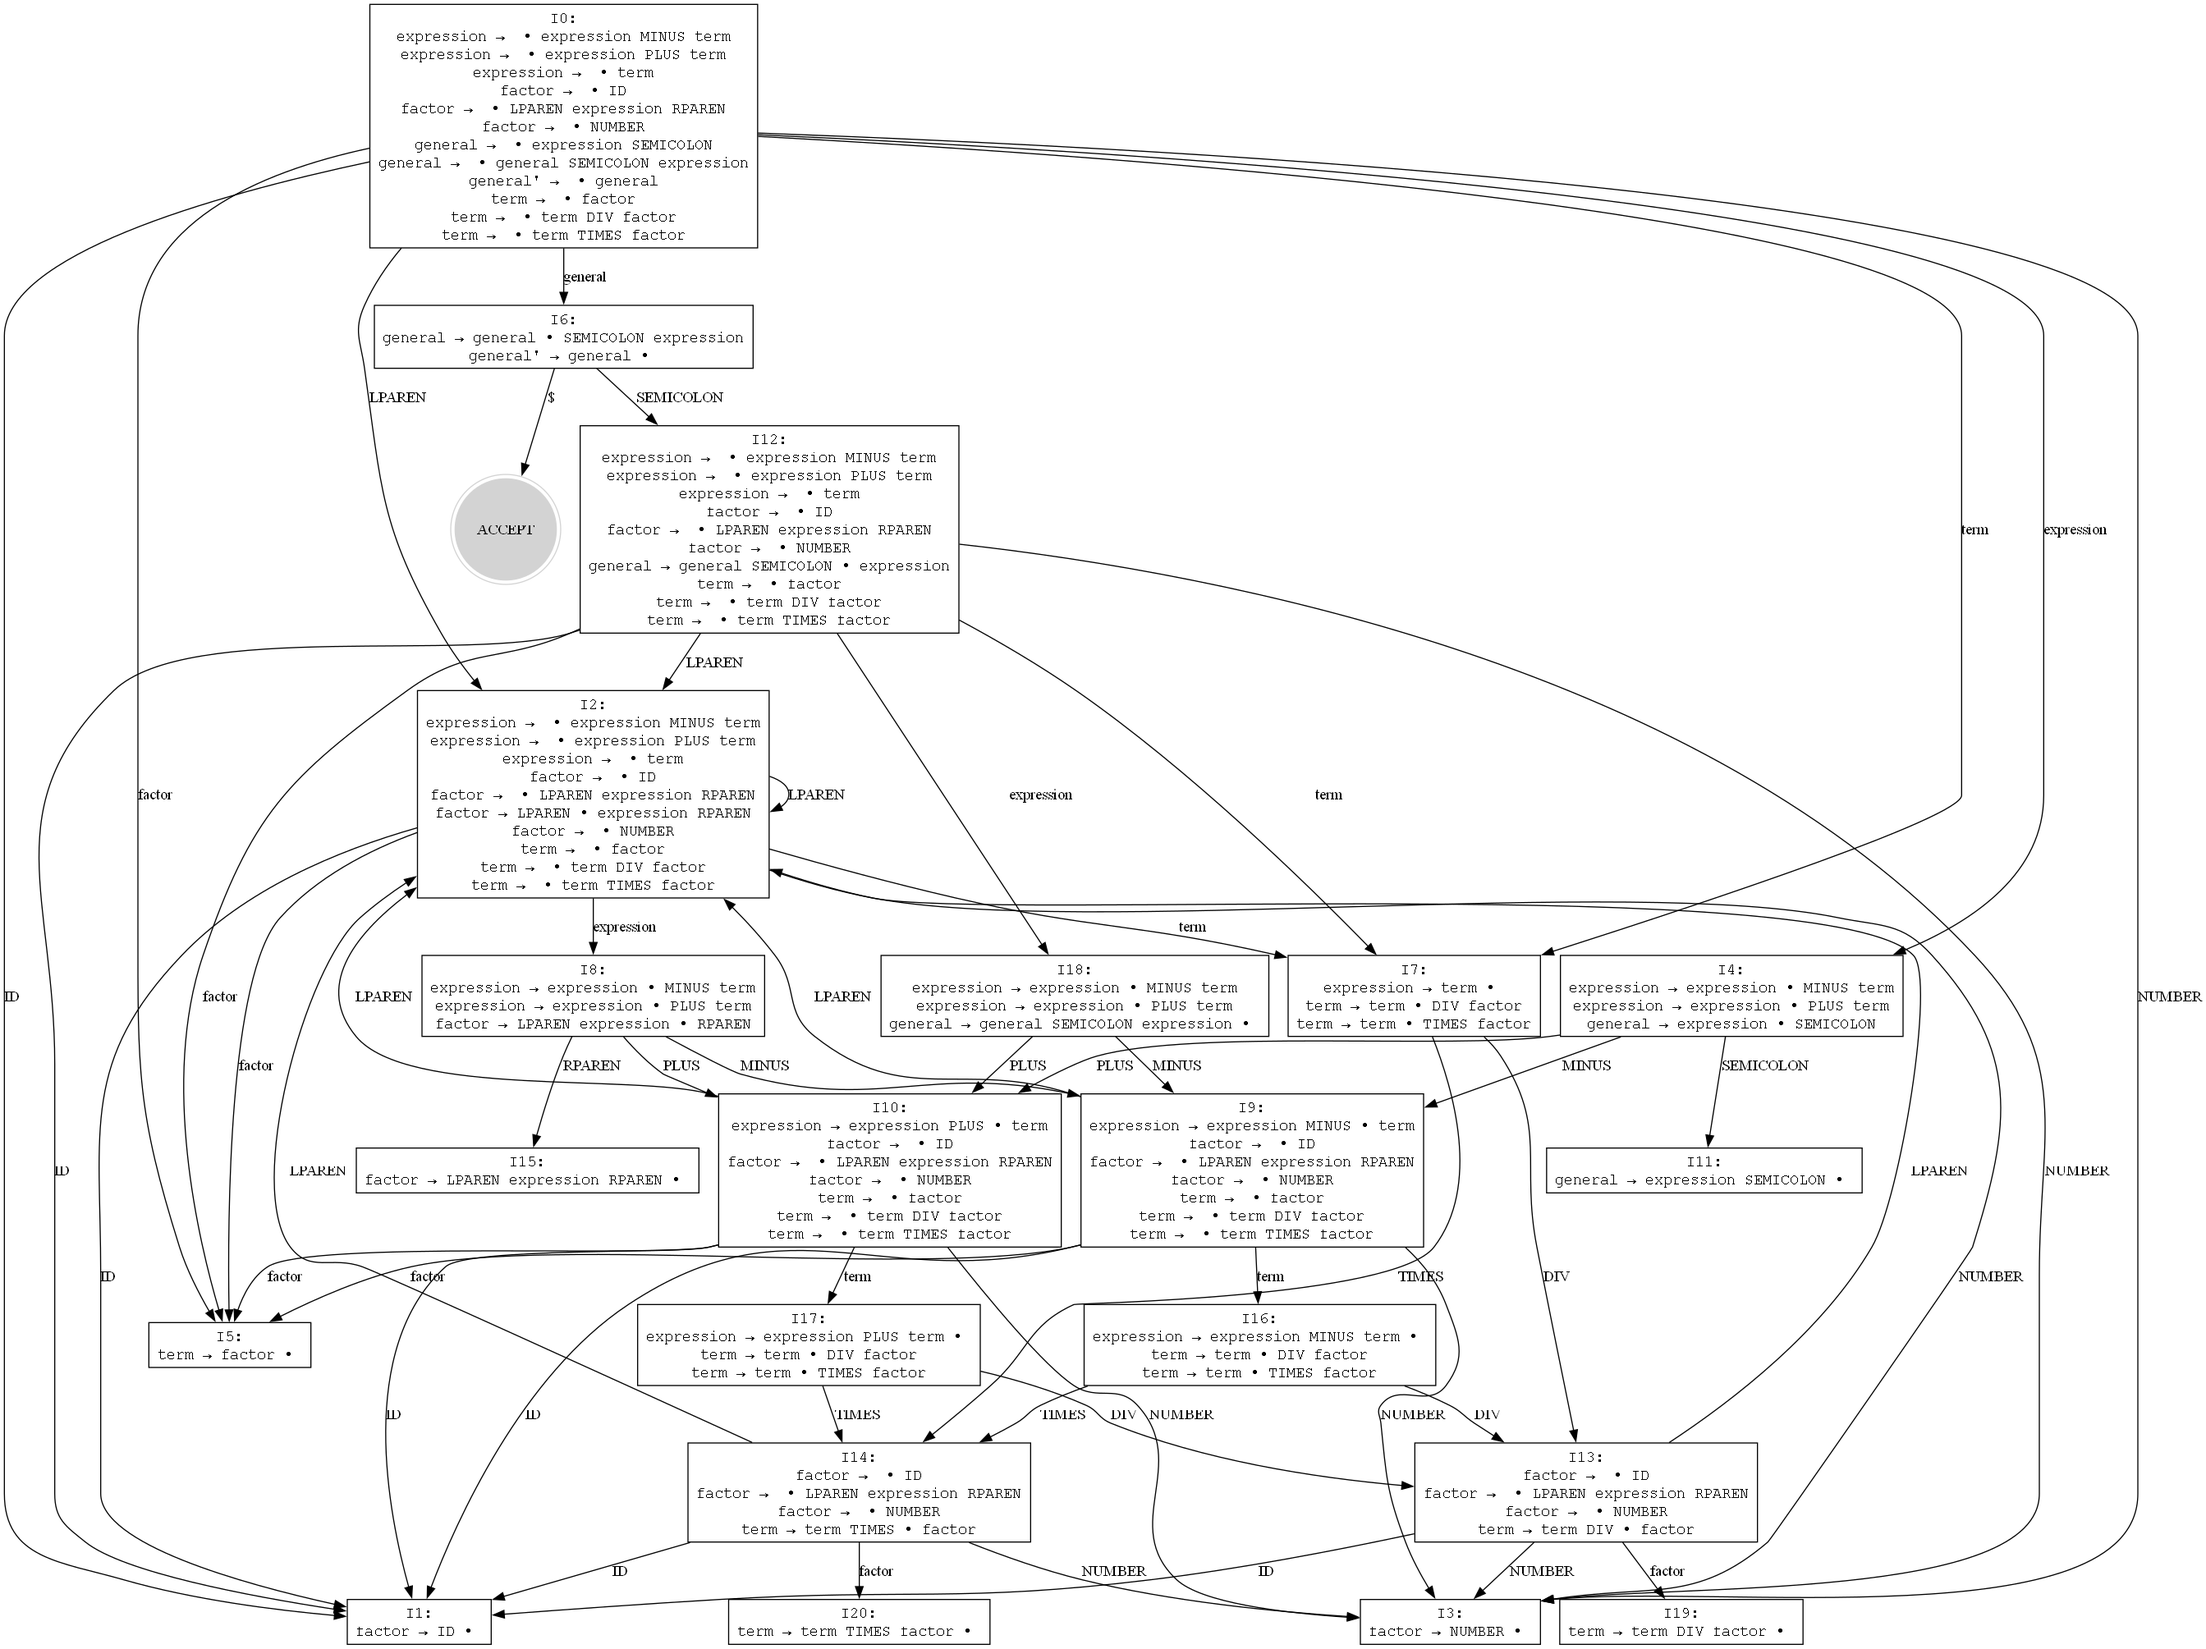
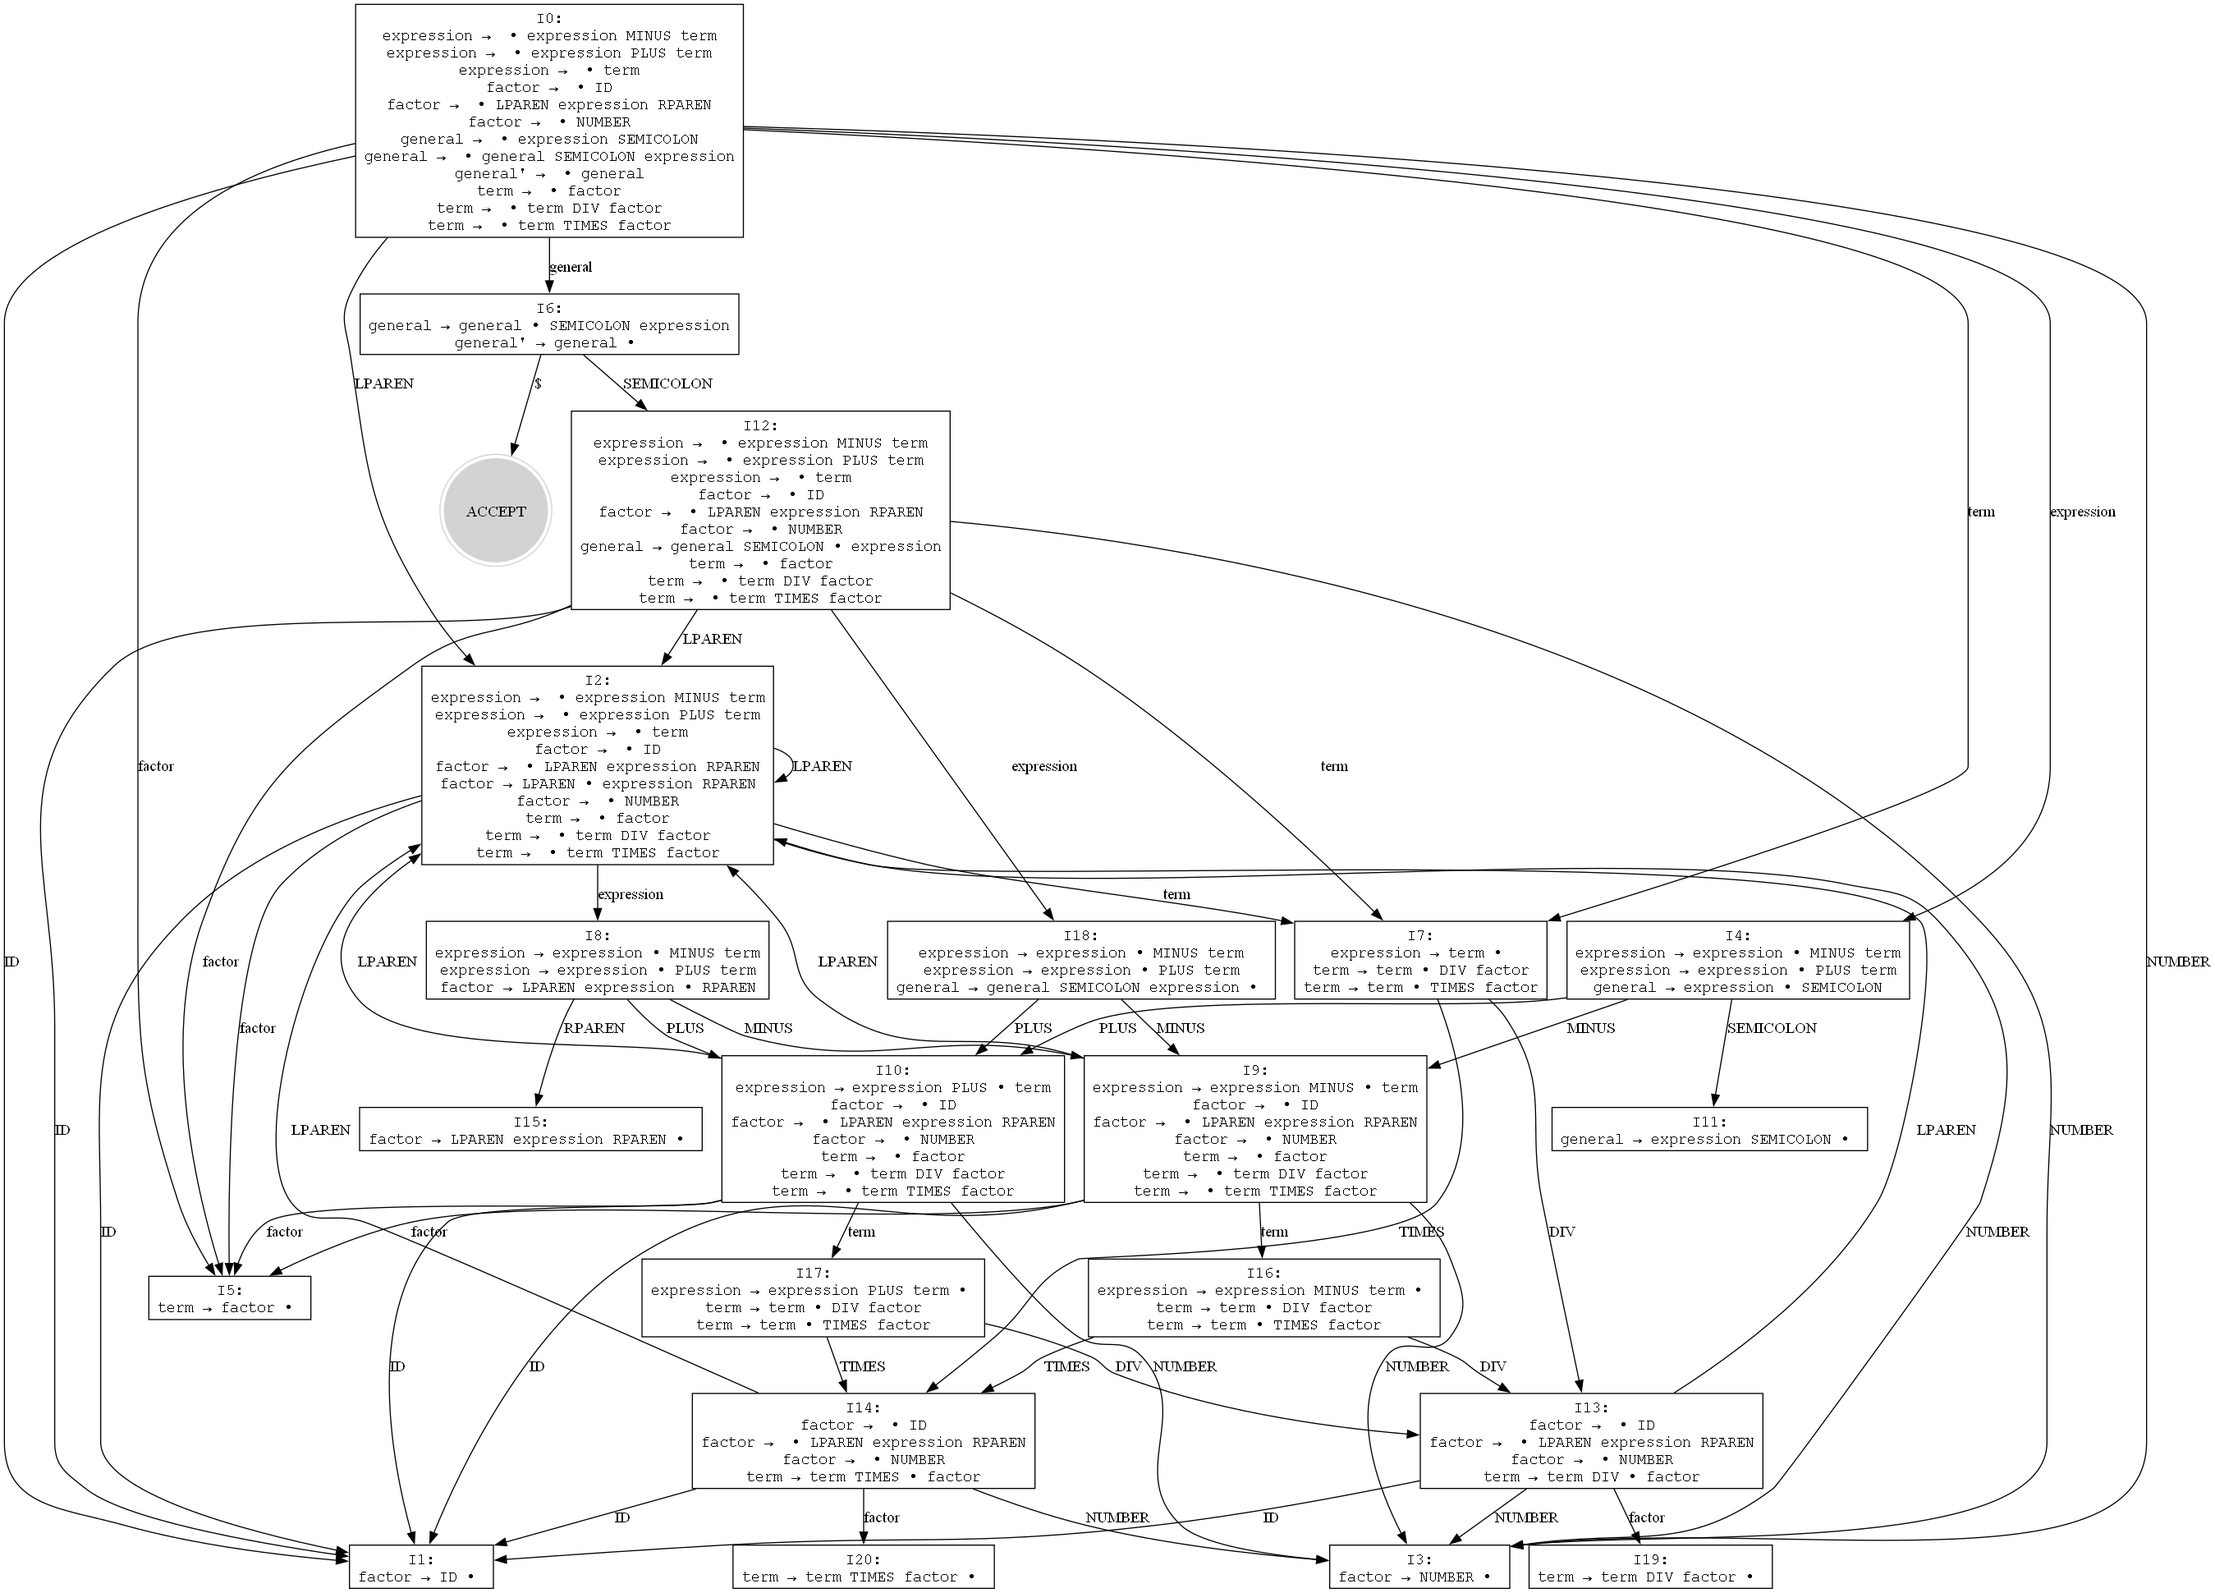
fix: file reader

diff --git a/main.py b/main.py
@@ -32,7 +32,8 @@ def productor(texto: str, automata, ignorados):
         if token not in ignorados:
             token_queue.put(token)  # Encolar solo si no está ignorado
         else:
-            print(f"Ignorando token: '{lexema}' -> {token}")
+            pass
+            # print(f"Ignorando token: '{lexema}' -> {token}")
 
     # Señal de fin
     token_queue.put('$')
@@ -235,15 +236,15 @@ def main():
     ignorados = list(set(ignorados_yalp + ignore))
 
     print("\n==== leyendo archivo... ====")
-    t = leerArchivo("./input/prueba.txt")[0]
+    t = leerArchivo("./input/prueba.txt")
 
 
     for estado, token in lexical_automata.estado_a_token.items():
         if token == "WHITESPACE":
             lexical_automata.estado_a_token[estado] = "WS"
 
-    print("\n==== TODOS LOS TOKENS A IGNORAR ====")
-    print(ignorados)
+    # print("\n==== TODOS LOS TOKENS A IGNORAR ====")
+    # print(ignorados)
 
 
     # Crear hilos
@@ -257,8 +258,6 @@ def main():
     # Esperar a que ambos terminen
     hilo_productor.join()
     hilo_consumidor.join()
-
-
 
     tokens_prueba_yalp1 = ["ID", "PLUS", "ID", "TIMES", "LPAREN", "ID", "PLUS", "ID", "RPAREN"]
 

diff --git a/constructor.py b/constructor.py
@@ -48,26 +48,21 @@ class BufferLectura:
         #Si no, retorna el siguiente caracter
         return char
 
-def leerArchivo(file: str) -> Union[List[str], str]:
+
+import os
+from typing import Union
+
+
+def leerArchivo(file: str) -> Union[str, str]:
     try:
         script_dir = os.path.dirname(__file__)
         file_path = os.path.join(script_dir, file)
 
         buffer = BufferLectura(file_path)
-        contenido = []
-        linea_actual = ""
+        contenido = ""
 
-        # Reconstruye lineas caracter por caracter
         for char in buffer:
-            if char == "\n":
-                contenido.append(linea_actual)
-                linea_actual = ""
-            else:
-                linea_actual += char
-        
-        # Agrega última línea si no termina en salto de lineas
-        if linea_actual:
-            contenido.append(linea_actual)
+            contenido += char
 
         print(contenido, type(contenido))
         return contenido
